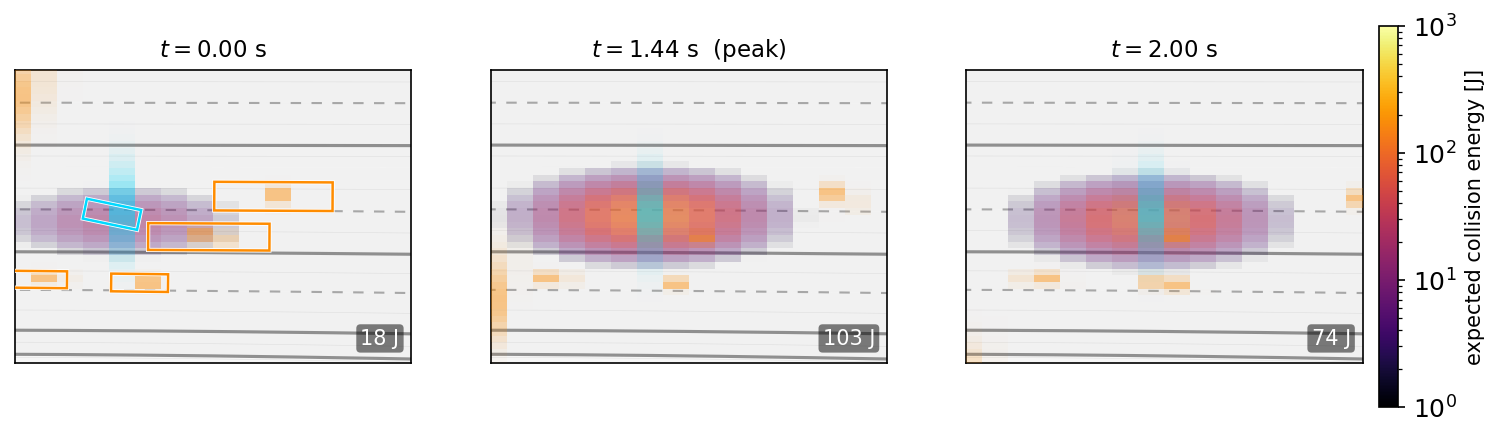
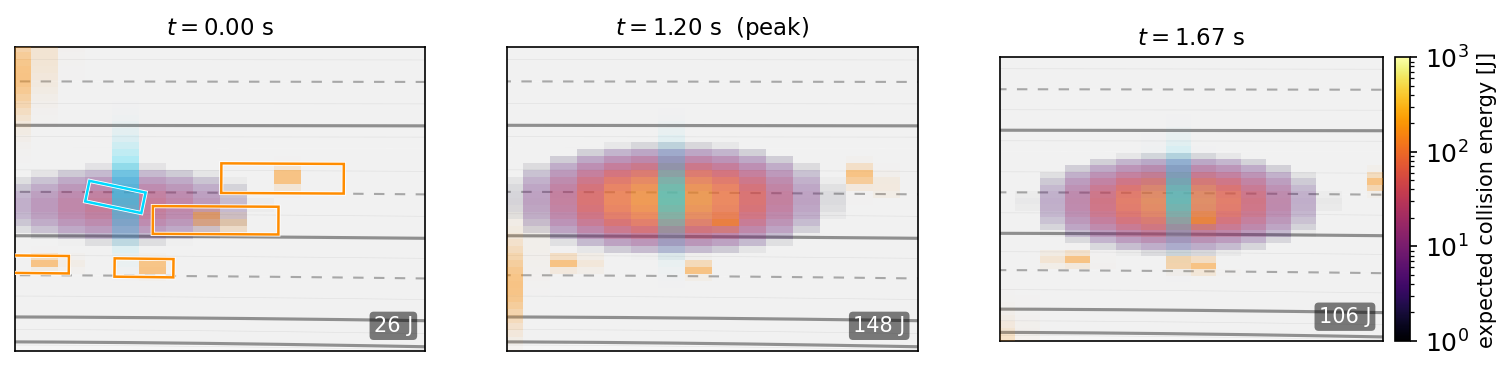
Fix AD4CHE risk-evolution figures: colorbar height + correct DT
- Colorbar now locked to the panel image height (make_axes_locatable on
  the last panel) instead of spanning the full subplot row.
- AD4CHE DT corrected 0.08 -> 0.0667 (30 fps, step 2), so centroid
  velocities/closing energies and frame times are right: scene a peak
  948 -> 1364 J at t=2.27s (closing 30 m/s), scene b 103 -> 148 J at
  t=1.20s. Captions updated to match.

diff --git a/index.html b/index.html
@@ -183,9 +183,9 @@ footer a{color:var(--ink)}
       <figure class="card"><img src="static/images/ind_ncrit_risk.png" alt="InD low-speed crossing onto stopped traffic" loading="lazy"/><figcaption><b>InD · proximity &#8800; severity.</b> A low-speed turn onto a queue of stopped cars: the geometrically <em>tighter</em> near-miss (boxes momentarily touch) but only a 2.8&#8202;m/s closing speed, so the field stays modest (34&#8202;J). Energy tracks closing speed, not proximity.</figcaption></figure>
     </div>
     <div style="height:22px"></div>
-    <figure class="card"><img src="static/images/ad4che_site17_evo.png" alt="AD4CHE congested-highway risk evolution" loading="lazy"/><figcaption><b>AD4CHE · risk evolution (high-speed closing).</b> Three key frames (current → mid-horizon → peak): the ego is nearly stopped in congestion while a vehicle closes at ~25&#8202;m/s; risk blooms to a sharp 948&#8202;J peak at the forecast meeting point, then relaxes.</figcaption></figure>
+    <figure class="card"><img src="static/images/ad4che_site17_evo.png" alt="AD4CHE congested-highway risk evolution" loading="lazy"/><figcaption><b>AD4CHE · risk evolution (high-speed closing).</b> Three key frames (current → mid-horizon → peak): the ego is nearly stopped in congestion while a vehicle closes at ~30&#8202;m/s; risk blooms to a sharp 1364&#8202;J peak at the forecast meeting point, then relaxes.</figcaption></figure>
     <div style="height:22px"></div>
-    <figure class="card"><img src="static/images/ad4che_site15_evo.png" alt="AD4CHE risk evolution, closing on near-static traffic" loading="lazy"/><figcaption><b>AD4CHE · risk evolution (closing on near-static traffic).</b> An ego car merging toward a near-stationary vehicle — risk peaks at 103&#8202;J and stays elevated as the ego keeps closing.</figcaption></figure>
+    <figure class="card"><img src="static/images/ad4che_site15_evo.png" alt="AD4CHE risk evolution, closing on near-static traffic" loading="lazy"/><figcaption><b>AD4CHE · risk evolution (closing on near-static traffic).</b> An ego car merging toward a near-stationary vehicle — risk peaks at 148&#8202;J and stays elevated as the ego keeps closing.</figcaption></figure>
   </div>
 </section>
 
